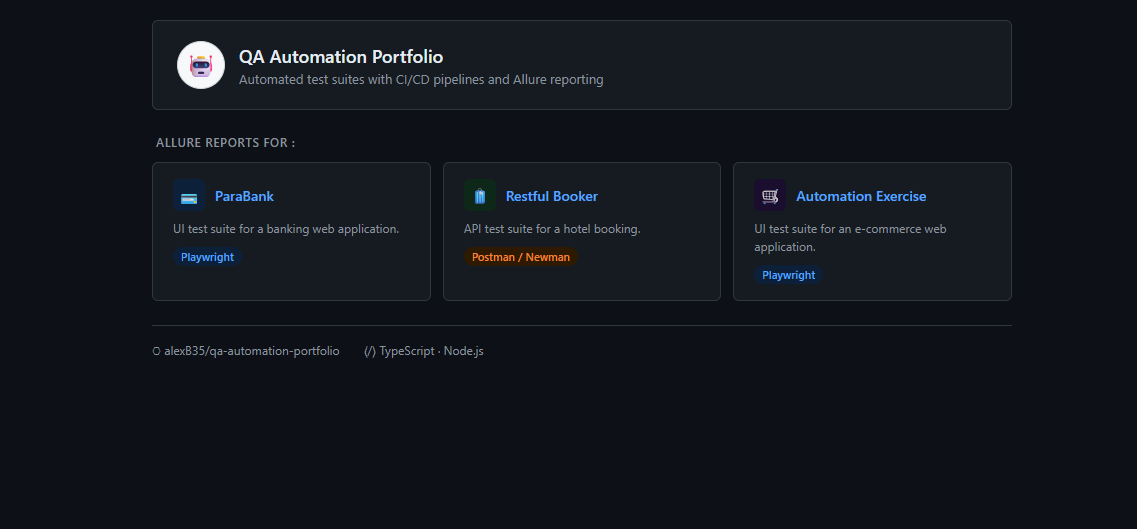
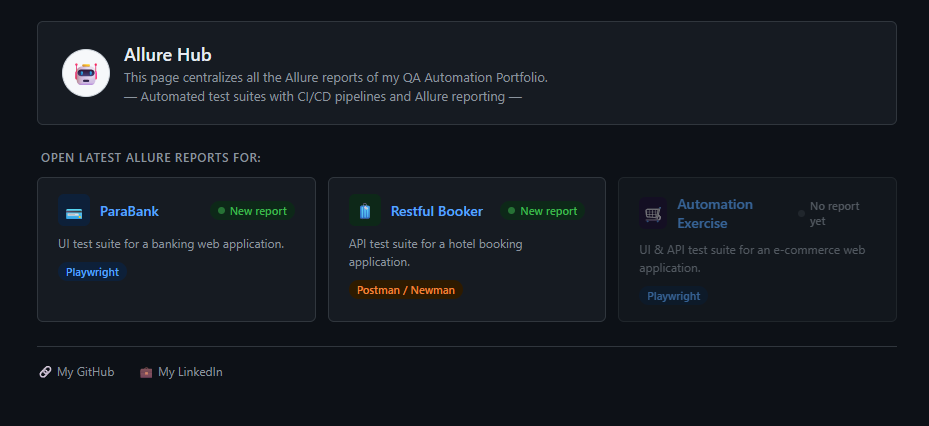
update

diff --git a/README.md b/README.md
@@ -30,7 +30,9 @@ A QA automation portfolio featuring UI & API testing, CI/CD pipelines via GitHub
 <details>
 <summary>About Docker usage</summary>
 
-Tests run directly on GitHub Actions runners in CI. A Docker image is published to Docker Hub for containerized local execution — no local dependencies required beyond Docker Desktop.
+</br>
+
+Tests run directly on GitHub Actions runners in CI. </br> A Docker image is published to Docker Hub for containerized local execution — no local dependencies required beyond Docker Desktop.
 
 </details>
 
@@ -45,6 +47,7 @@ Tests run directly on GitHub Actions runners in CI. A Docker image is published 
 - Isolated test execution
 - CI-ready architecture
 
+---
 
 ## QA workflow
 
@@ -66,11 +69,11 @@ Each application has its own dedicated CI/CD workflow, allowing independent exec
 | Dimension | Details |
 |-----------|---------|
 | Scope | UI & API automation — independent, reusable tests |
-| Approach | Modular, data-driven tests in Docker containers, orchestrated via GitHub Actions |
+| Approach | Modular, data-driven tests orchestrated via GitHub Actions |
 | Test Types | Functional, positive/negative, validation, API contract |
 | Reporting | Allure reports on GitHub Pages with failure screenshots, CI artifacts |
 
-This portfolio follows a structured QA approach to ensure high-quality, reliable, and maintainable automated tests across multiple applications.
+>This portfolio follows a structured QA approach to ensure high-quality, reliable, and maintainable automated tests across multiple applications.
 
 ---
 
@@ -84,27 +87,19 @@ This portfolio follows a structured QA approach to ensure high-quality, reliable
 
 ---
 
-## Consult CI reports on GitHub Pages
+## Allure Hub
 
 Tests run on GitHub Actions runners in CI. 
 
-<br/>
-
-View the latest test reports on the Allure Hub (GitHub Pages).
-
----
-
-## Allure Hub
-
-The generated Allure reports of the 3 applications are centralized in the Allure Hub after the _deploy-pages.yml_ ends.
-
-![Allure hub](./assets/allure-hub.png)
+Allure reports for all 3 applications are centralized in the Allure Hub (GitHub Pages), deployed via `deploy-allure-hub.yml` after each CI run.
 
 [Allure Hub](https://alexb35.github.io/qa-automation-portfolio/)
 
+![Allure hub](./assets/allure-hub.png)
+
 ---
 
-## Report sample
+## Allure Report Sample
 
 ![Allure report](./assets/allure-report.png)
 
@@ -112,23 +107,24 @@ The generated Allure reports of the 3 applications are centralized in the Allure
 
 ## How to Run Tests Locally
 
-_For local execution, a Docker image is available on Docker Hub._
+_For local execution, a Docker image is available on Docker Hub — no dependencies required beyond Docker Desktop._
 
 **Prerequisites :** 
 [Docker Desktop](https://www.docker.com/get-started)
 
 <br/>
 
-**Pull and run the image:**
+**Run the image:**
 ```bash
-docker pull alexB35/qa-automation-portfolio:latest
 docker run --rm -v $(pwd)/reports:/app/outputs alexB35/qa-automation-portfolio:latest
 ```
+
+> Reports are generated locally in `./reports/`.
 
 ---
 
 > [!NOTE]
-> Test data is dynamically generated. </br> Tests are independent and isolated. </br> Allure reports are published to [GitHub Pages](https://alexB35.github.io/qa-automation-portfolio/) after each CI run and remain accessible until the next run — reports generated by local Docker runs are stored in `./reports/`.
+> Test data is dynamically generated. </br> Tests are independent and isolated. </br> Allure reports are published to [GitHub Pages](https://alexB35.github.io/qa-automation-portfolio/) after each CI run and remain accessible until the next CI run overwrites them.
 
 > [!WARNING]
 > Docker image includes known npm dependency vulnerabilities. </br> In a real environment, dependencies would be pinned to secure versions and a minimal base image used.